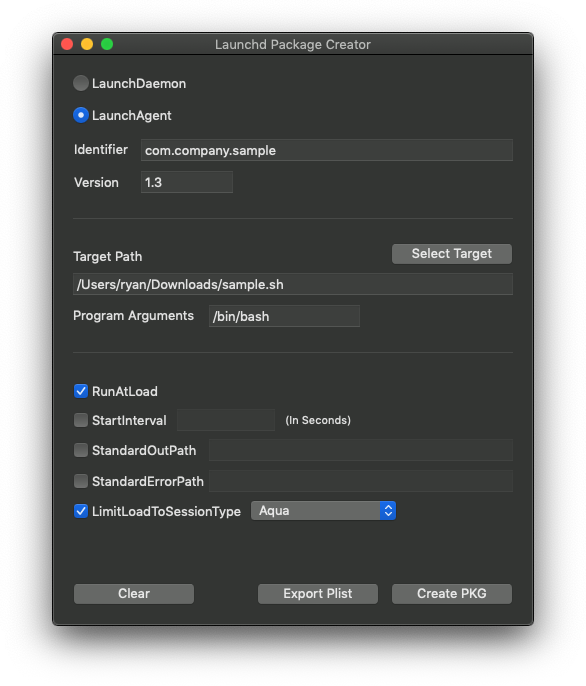
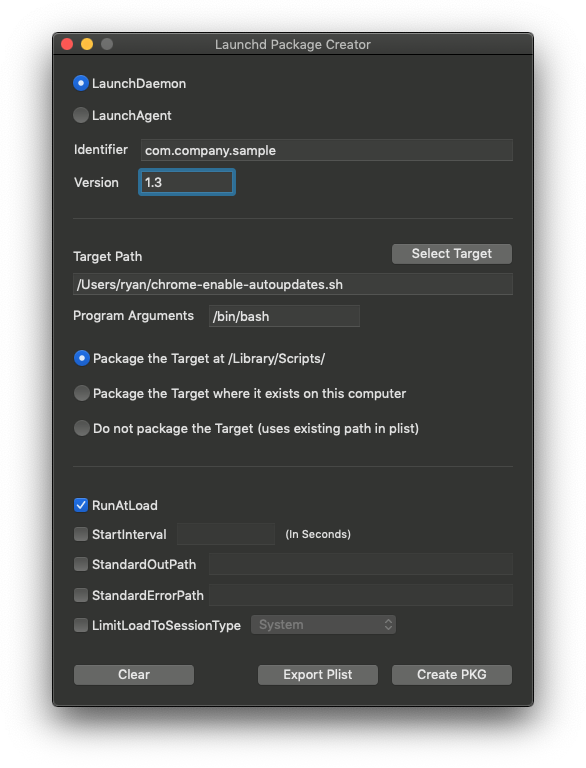
Allow for packaging/not packaging the target

diff --git a/Launchd Package Creator/ViewController.swift b/Launchd Package Creator/ViewController.swift
@@ -28,6 +28,8 @@ var globalPkgTempLocation: String = ""
 var globalSessionType: String? = nil
 var emptyRequiredFields = [String]()
 var usingApp: Bool = false
+var globalTargetPathInPlist: String = ""
+var globalPackageTarget: Bool = true
 
 class ViewController: NSViewController {
 
@@ -48,6 +50,9 @@ class ViewController: NSViewController {
     @IBOutlet weak var sessionTypeOptions: NSPopUpButton!
     @IBOutlet weak var sessionTypeCheck: NSButton!
     @IBOutlet weak var programArgsOptLabel: NSTextField!
+    @IBOutlet weak var packageAtDefaultRadio: NSButton!
+    @IBOutlet weak var packageAtSpecifiedRadio: NSButton!
+    @IBOutlet weak var doNotPackageRadio: NSButton!
     
     // Create arrays of fields/buttons to clear or disable when using the "Clear" button
     lazy var fieldsToClear: [NSTextField] = [self.daemonIdentifier, self.daemonVersion, self.programArgs, self.targetPath, self.startIntervalSeconds, self.standardOutPathField, self.standardErrorPathField]
@@ -71,8 +76,8 @@ class ViewController: NSViewController {
         return
     }
     
+    // Function to open the File Save dialog box
     func fileSaveDialog(title: String, allowedFileTypes: Array<String>, source: String) {
-        // Open the File Save dialog box
         let fileSaveDialog = NSSavePanel();
         fileSaveDialog.message                  = title;
         fileSaveDialog.showsResizeIndicator     = true;
@@ -150,7 +155,7 @@ class ViewController: NSViewController {
         }
     }
     
-    func determineProgramArgs (userSelectedTarget:String) -> String {
+    func determineProgramArgs(userSelectedTarget:String) -> String {
         let targetExtension = NSURL(fileURLWithPath: userSelectedTarget).pathExtension
         // Make sure the program args field is enabled initially
         programArgs.isEnabled = true
@@ -174,13 +179,10 @@ class ViewController: NSViewController {
                 let linesOfTarget = targetContents.components(separatedBy: "\n")
                 let shebang = String(linesOfTarget[0]);
                 if shebang.contains ("bash") {
-                    // shebang contains bash
                     programArgs.stringValue = String("/bin/bash");
                 } else if shebang.contains ("sh") {
-                    // shebang contains sh
                     programArgs.stringValue = String("/bin/sh");
                 } else if shebang.contains ("python") {
-                    // shebang contains python
                     programArgs.stringValue = String("/usr/bin/python");
                 } else {
                     // Either no shebang or we don't know how to deal with the shebang in the file
@@ -251,6 +253,30 @@ class ViewController: NSViewController {
         }
     }
     
+    @IBAction func packageAtDefaultAction(_ sender: Any) {
+        if packageAtDefaultRadio.state == NSControl.StateValue.on {
+            packageAtSpecifiedRadio.state = NSControl.StateValue.off
+            doNotPackageRadio.state = NSControl.StateValue.off
+            globalPackageTarget = true
+        }
+    }
+    
+    @IBAction func packageAtSpecifiedAction(_ sender: Any) {
+        if packageAtSpecifiedRadio.state == NSControl.StateValue.on {
+            packageAtDefaultRadio.state = NSControl.StateValue.off
+            doNotPackageRadio.state = NSControl.StateValue.off
+            globalPackageTarget = true
+        }
+    }
+    
+    @IBAction func doNotPackageAction(_ sender: Any) {
+        if doNotPackageRadio.state == NSControl.StateValue.on {
+            packageAtDefaultRadio.state = NSControl.StateValue.off
+            packageAtSpecifiedRadio.state = NSControl.StateValue.off
+            globalPackageTarget = false
+        }
+    }
+    
     @IBAction func startIntervalAction(_ sender: Any) {
         if startInterval.state == NSControl.StateValue.on {
             startIntervalSeconds.isEnabled = true
@@ -298,6 +324,9 @@ class ViewController: NSViewController {
         for button in self.buttonsToClear { button.state = NSControl.StateValue.off }
         for field in self.fieldsToDisable { field.isEnabled = false }
         daemonButton.state = NSControl.StateValue.on
+        packageAtDefaultRadio.state = NSControl.StateValue.on
+        packageAtSpecifiedRadio.state = NSControl.StateValue.off
+        doNotPackageRadio.state = NSControl.StateValue.off
         agentButton.state = NSControl.StateValue.off
         sessionTypeOptions.isEnabled = false
         sessionTypeOptions.selectItem(at: 0)
@@ -324,6 +353,16 @@ class ViewController: NSViewController {
             globalVersion = daemonVersion.stringValue
             globalProgramArgs = programArgs.stringValue
             globalTargetPath = targetPath.stringValue
+            globalTargetPathFileName = (globalTargetPath as NSString).lastPathComponent
+            
+            // Determine the path where the target will be packaged if applicable
+            if packageAtDefaultRadio.state == NSControl.StateValue.on {
+                globalTargetPathInPlist = "/Library/Scripts/\(globalTargetPathFileName)"
+            } else if packageAtSpecifiedRadio.state == NSControl.StateValue.on {
+                globalTargetPathInPlist = globalTargetPath
+            } else if doNotPackageRadio.state == NSControl.StateValue.on {
+                globalTargetPathInPlist = globalTargetPath
+            }
             
             // Determine state of runAtLoad Checkbox, populate value for plist
             if runAtLoad.state == NSControl.StateValue.on {
@@ -363,12 +402,11 @@ class ViewController: NSViewController {
                 globalSessionType = nil
             }
             
-            // Determine the filename of the target app/script, build the program args array for plist
-            globalTargetPathFileName = (globalTargetPath as NSString).lastPathComponent
+            // Build the program args array for plist
             if programArgs.stringValue != "" {
-                globalProgramArgsFull = [globalProgramArgs, "/Library/Scripts/\(globalTargetPathFileName)"]
+                globalProgramArgsFull = [globalProgramArgs, globalTargetPathInPlist]
             } else {
-                globalProgramArgsFull = ["/Library/Scripts/\(globalTargetPathFileName)"]
+                globalProgramArgsFull = [globalTargetPathInPlist]
             }
             
             // Let the user know LaunchAgent/LimitLoadToSessionType: Aqua is preferred for .apps
@@ -391,8 +429,6 @@ class ViewController: NSViewController {
                         // User clicked the continue button
                         create_daemon().build(buildType: buildType)
                         // If the intention is to build a PKG, then show the save dialog
-                        //if buildType == "PKG" { _ = self.fileSaveDialog() }
-                        //if buildType == "Plist" { NSWorkspace.shared.openFile(preferencesURL.path, withApplication: "TextEdit") }
                         if buildType == "Plist" {
                             self.fileSaveDialog(title: "Choose a save location for the launchd plist.", allowedFileTypes: ["plist"], source: preferencesURL.path)
                         }
@@ -404,8 +440,6 @@ class ViewController: NSViewController {
             } else {
                 create_daemon().build(buildType: buildType)
                 // If the intention is to build a PKG, then show the save dialog
-                //if buildType == "PKG" { _ = self.fileSaveDialog() }
-                //if buildType == "Plist" { NSWorkspace.shared.openFile(preferencesURL.path, withApplication: "TextEdit") }
                 if buildType == "Plist" {
                     self.fileSaveDialog(title: "Choose a save location for the launchd plist.", allowedFileTypes: ["plist"], source: preferencesURL.path)
                 }
@@ -442,6 +476,13 @@ class ViewController: NSViewController {
         
         // Set focus to Identifier field
         self.daemonIdentifier.becomeFirstResponder()
+        
+        globalPackageTarget = true
+    }
+    
+    // Disable window resizing
+    override func viewDidAppear() {
+        view.window!.styleMask.remove(.resizable)
     }
 
     override var representedObject: Any? {

diff --git a/Launchd Package Creator/create_daemon.swift b/Launchd Package Creator/create_daemon.swift
@@ -41,6 +41,7 @@ public class create_daemon: NSObject {
     var baseTempDir: URL!
     var sessionTempDir: URL!
     var componentPlistURL: URL!
+    var postInstallChownLines: String = ""
     
     public func build(buildType: String) {
         
@@ -51,18 +52,20 @@ public class create_daemon: NSObject {
         preferencesURL = sessionTempDir.appendingPathComponent("/root/Library/\(globalDaemonFolderName)/\(globalIdentifier).plist")
         componentPlistURL = sessionTempDir.appendingPathComponent("/build/component.plist")
         
-        let subPaths = [
+        var subPaths = [
             "root/Library/\(globalDaemonFolderName)",
-            "root/Library/Scripts",
             "scripts",
             "build",
             ]
+        
+        if globalPackageTarget == true {
+            subPaths.append("root/\((globalTargetPathInPlist as NSString).deletingLastPathComponent)")
+        }
         
         subPaths.forEach { subPath in
             let url = sessionTempDir.appendingPathComponent(subPath)
             do {
                 try FileManager.default.createDirectory(at: url, withIntermediateDirectories: true, attributes: nil)
-                //print("path created: \(url)")
             } catch let error {
                 print("error: \(error)")
             }
@@ -70,14 +73,22 @@ public class create_daemon: NSObject {
         
         // Create the pkg postinstall script
         func createPostinstall() {
+            if globalPackageTarget == true {
+                postInstallChownLines = """
+                chown -R root:wheel "\(globalTargetPathInPlist)"
+                chmod -R 755 "\(globalTargetPathInPlist)"
+                """
+            } else {
+                postInstallChownLines = ""
+            }
+            
             let postInstallText = """
             #!/bin/bash
             
-            # Set permissions on LaunchDaemon and Script
+            # Set permissions on launchd \(globalDaemonType) files
             chown root:wheel "/Library/\(globalDaemonFolderName)/\(globalIdentifier).plist"
             chmod 644 "/Library/\(globalDaemonFolderName)/\(globalIdentifier).plist"
-            chown -R root:wheel "/Library/Scripts/\(globalTargetPathFileName)"
-            chmod -R 755 "/Library/Scripts/\(globalTargetPathFileName)"
+            \(postInstallChownLines)
             
             exit 0
             """
@@ -102,22 +113,9 @@ public class create_daemon: NSObject {
             }
         }
         
-//        func encodePlist(PlistData: String, Destination: URL) {
-//            let preferencesToEncode = ComponentPlist(BundleIsRelocatable: false, BundleIsVersionChecked: false, BundleOverwriteAction: "upgrade", RootRelativeBundlePath: "/Library/Scripts/\(globalTargetPathFileName)")
-//            let encoder = PropertyListEncoder()
-//            encoder.outputFormat = .xml
-//            do {
-//                let data = try encoder.encode(preferencesToEncode)
-//                try data.write(to: Destination)
-//            } catch {
-//                // Handle error
-//                print(error)
-//            }
-//            // Code goes here
-//        }
-        
+        // Create the component plist
         func createComponentPlist() {
-            let preferencesToEncode = ComponentPlist(BundleIsRelocatable: false, BundleIsVersionChecked: false, BundleOverwriteAction: "upgrade", RootRelativeBundlePath: "/Library/Scripts/\(globalTargetPathFileName)")
+            let preferencesToEncode = ComponentPlist(BundleIsRelocatable: false, BundleIsVersionChecked: false, BundleOverwriteAction: "upgrade", RootRelativeBundlePath: "\(globalTargetPathInPlist)")
             let encoder = PropertyListEncoder()
             encoder.outputFormat = .xml
             do {
@@ -131,7 +129,7 @@ public class create_daemon: NSObject {
         
         // Copy the target script/app
         func copyTarget() {
-            let destinationURL = sessionTempDir.appendingPathComponent("root/Library/Scripts/\(globalTargetPathFileName)")
+            let destinationURL = sessionTempDir.appendingPathComponent("root/\(globalTargetPathInPlist)")
             _ = extras().copyFile(source: globalTargetPath, destination: destinationURL.path)
         }
     
@@ -166,24 +164,24 @@ public class create_daemon: NSObject {
             let pkgBuildDir = sessionTempDir.appendingPathComponent("build/")
             globalPkgTempLocation = "\(pkgBuildDir.path)/hello.pkg"
             
-            if usingApp == true {
+            // If we are packaging an app use a component plist, otherwise it is not needed
+            if (usingApp == true) && (globalPackageTarget == true) {
+                createComponentPlist()
                 shell("/usr/bin/pkgbuild", "--quiet", "--root", "\(pkgRoot.path)", "--install-location", "/", "--scripts", "\(pkgScripts.path)", "--identifier", "\(globalIdentifier)", "--version", "\(globalVersion)", "--ownership", "recommended", "--component-plist", "\(componentPlistURL.path)", "\(globalPkgTempLocation)")
-                
             } else {
                 shell("/usr/bin/pkgbuild", "--quiet", "--root", "\(pkgRoot.path)", "--install-location", "/", "--scripts", "\(pkgScripts.path)", "--identifier", "\(globalIdentifier)", "--version", "\(globalVersion)", "--ownership", "recommended", "\(globalPkgTempLocation)")
             }
-            
         }
         
         if buildType == "PKG" {
             createPostinstall()
-            createComponentPlist()
-            copyTarget()
+            if globalPackageTarget == true {
+                copyTarget()
+            }
             createPlist()
             createPKG()
         } else if buildType == "Plist" {
             createPlist()
         }
-        
     }
 }
